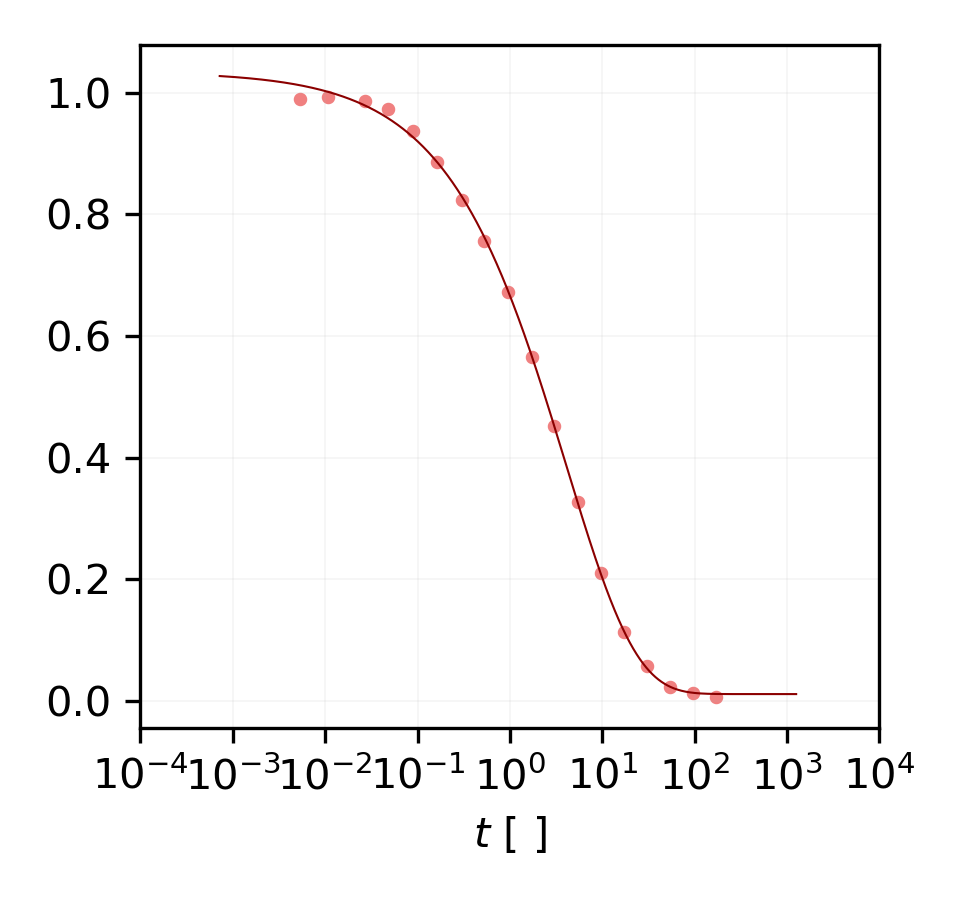
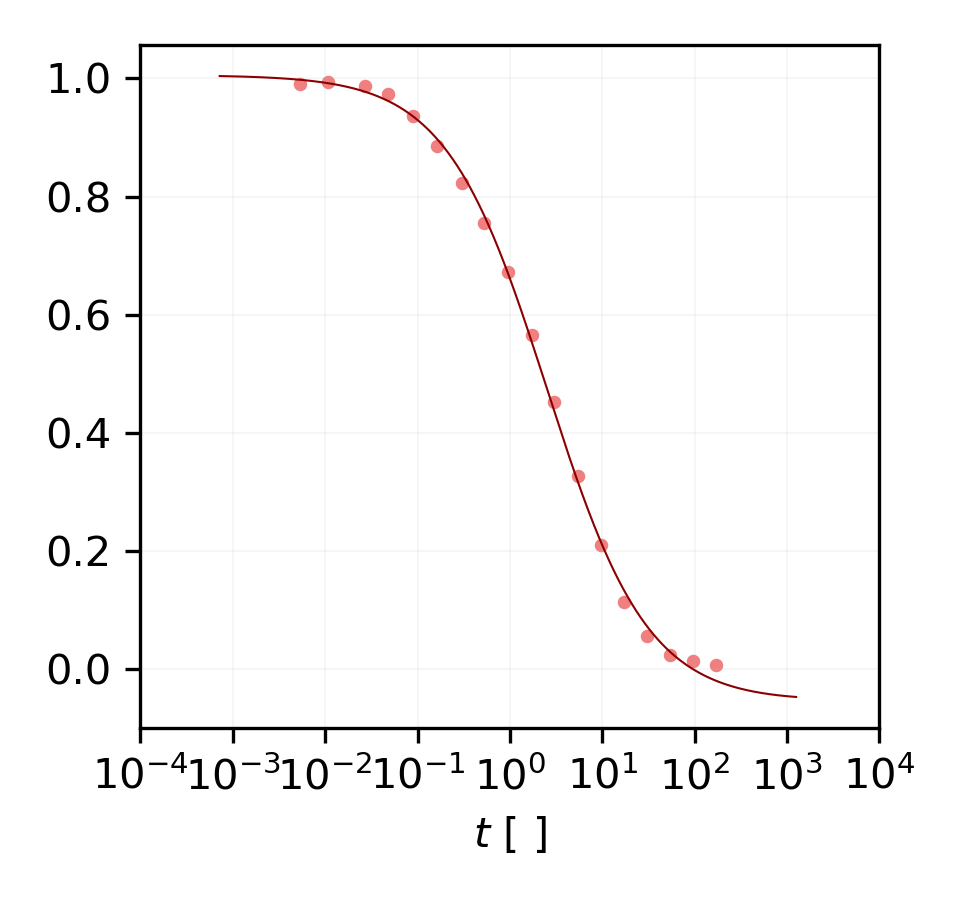
m+1 fix

diff --git a/HeavyTailFit/HT_FitCode_v0_1.py b/HeavyTailFit/HT_FitCode_v0_1.py
@@ -55,7 +55,7 @@ csv  = np.genfromtxt(file, delimiter=",")
 # csv  = np.genfromtxt(file, delimiter=','   , skip_header = 1 + dataOffset)
 # csv  = np.genfromtxt(file, delimiter='\t'   , skip_header = 1 + dataOffset)
 csv = csv[~np.isnan(csv).any(axis=1)] # removes rows containing NaN from the data
-fitMode = float(input('Would you like to fit to a \'Streched-Exponential\' (1) or a \'Power-Law\' decay equation? (2) \nPlease enter 1 or 2: '))
+fitMode = -1+float(input('Would you like to fit to a \'Streched-Exponential\' (1) or a \'Power-Law\' decay equation? (2) \nPlease enter 1 or 2: '))
 print('Analyzing' + file)
 
 DataX = np.log(csv[:,0]*xscale)
